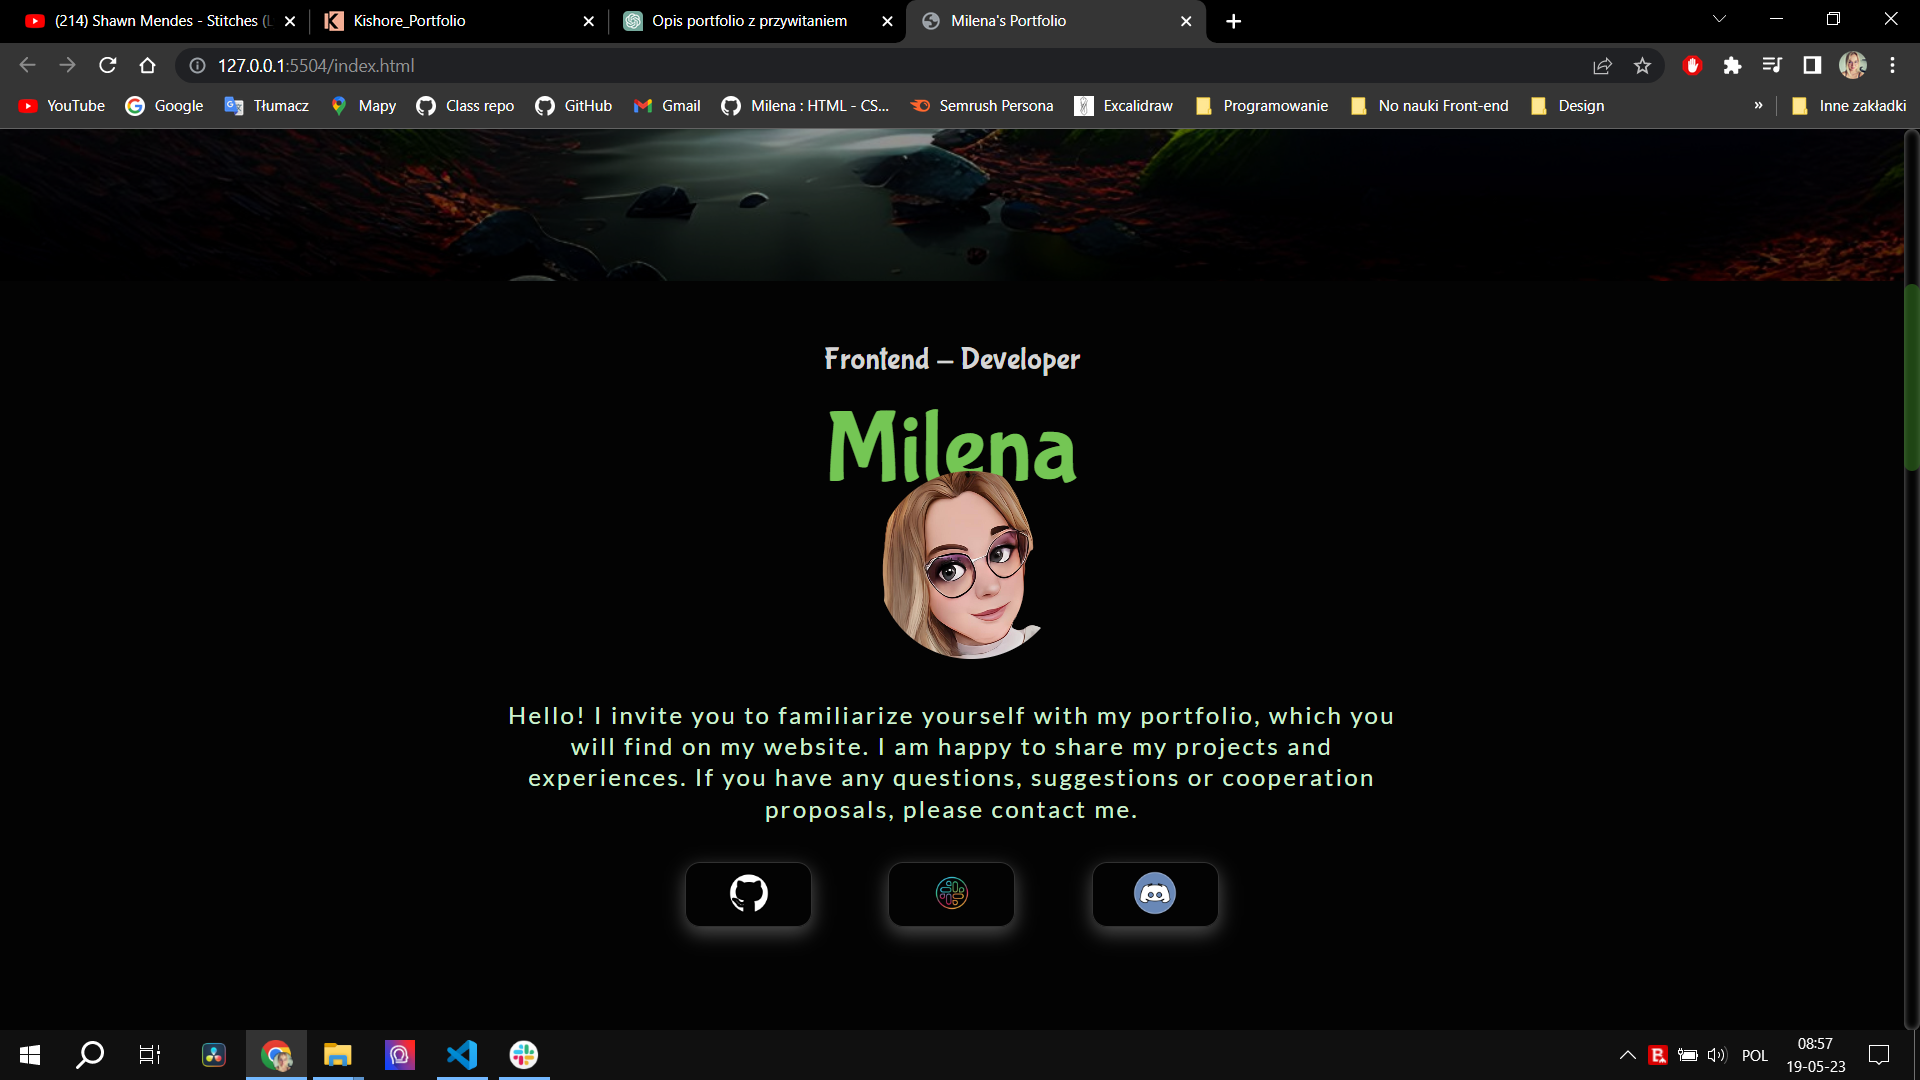
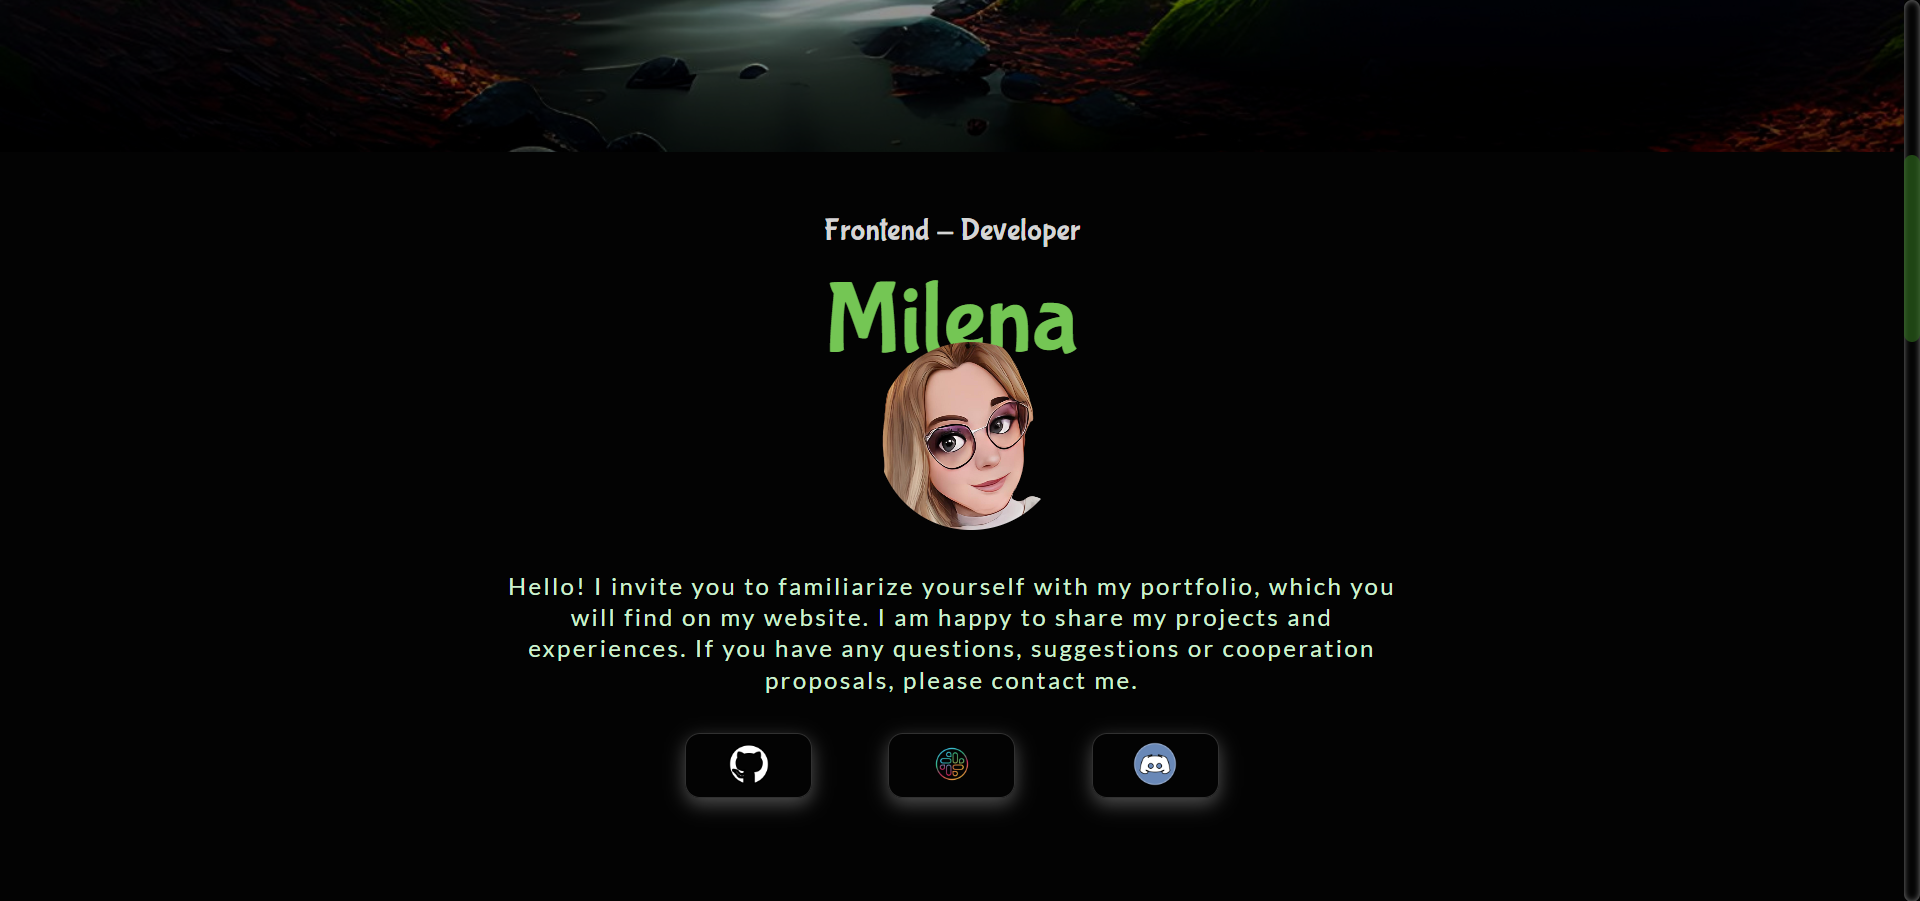
add footer

diff --git a/styles/style.css b/styles/style.css
@@ -81,7 +81,7 @@ a {
   cursor: pointer;
 }
 
-.menu>path {
+.menu > path {
   fill: rgb(145, 247, 105);
   filter: brightness(80%);
 }
@@ -102,7 +102,7 @@ nav .close-icon {
   z-index: 3;
 }
 
-.close>path {
+.close > path {
   fill: rgb(145, 247, 105);
   filter: brightness(80%);
 }
@@ -148,11 +148,11 @@ nav a:visited {
   color: inherit;
 }
 
-.nav-li>a:hover {
+.nav-li > a:hover {
   color: rgb(145, 247, 105);
 }
 
-.nav-li>a:focus {
+.nav-li > a:focus {
   color: rgb(145, 247, 105);
 }
 
@@ -409,6 +409,26 @@ nav a:visited {
 
 .huddle {
   filter: brightness(60%);
+}
+
+.footer {
+  display: flex;
+  justify-content: center;
+  align-items: center;
+  width: 100vw;
+  height: 8rem;
+  margin-top: 5rem;
+  border-top: 1px solid rgb(70, 71, 70);
+}
+
+.website-owner {
+  font-size: 2rem;
+  color: #bbf8a1eb;
+  letter-spacing: 0.2rem;
+}
+
+.website-owner span {
+  color: white;
 }
 
 @media screen and (min-width: 750px) {

diff --git a/index.html b/index.html
@@ -205,6 +205,14 @@
         </div>
       </div>
     </section>
+    <footer>
+      <div class="footer">
+        <p class="website-owner">
+          <span>|</span> Designed and Developed by Milena
+          <span>|</span>
+        </p>
+      </div>
+    </footer>
     <script src="./scripts/scripts.js"></script>
   </body>
 </html>
